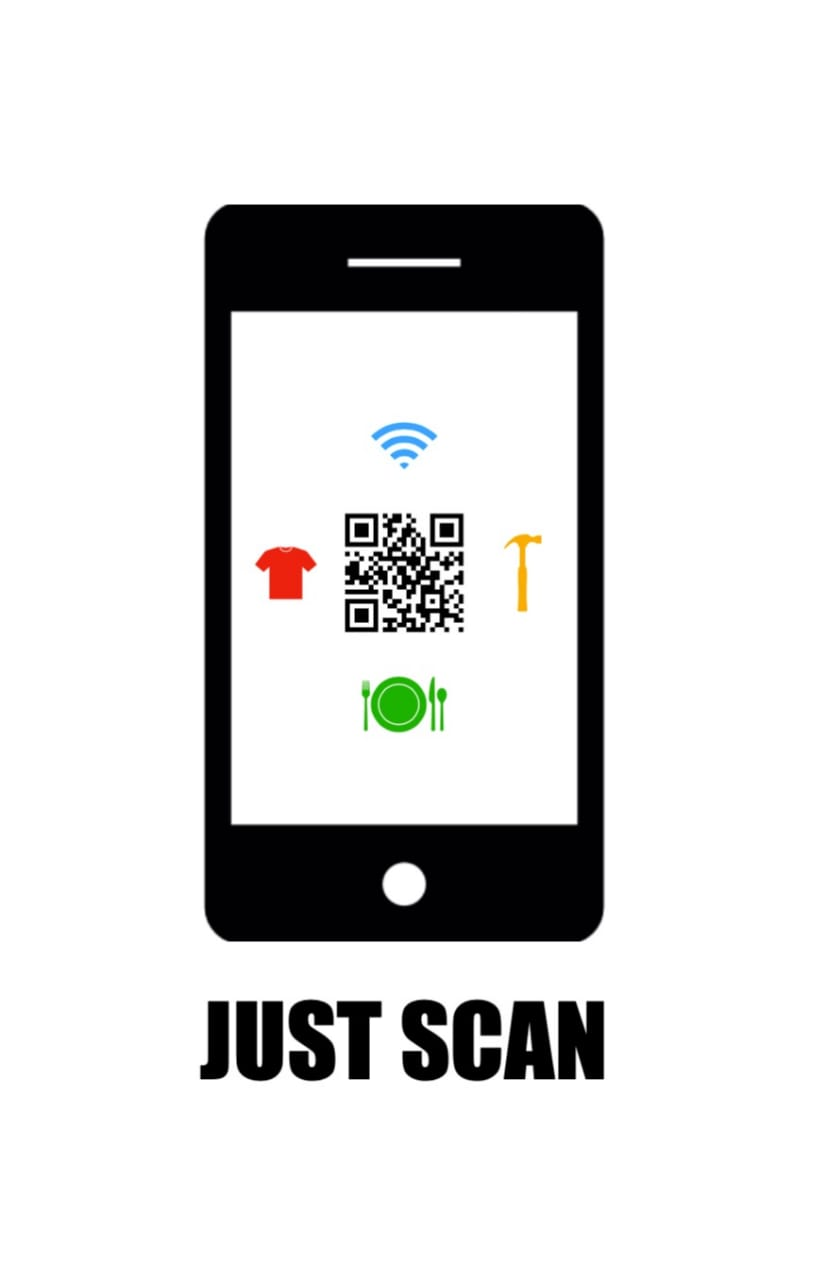
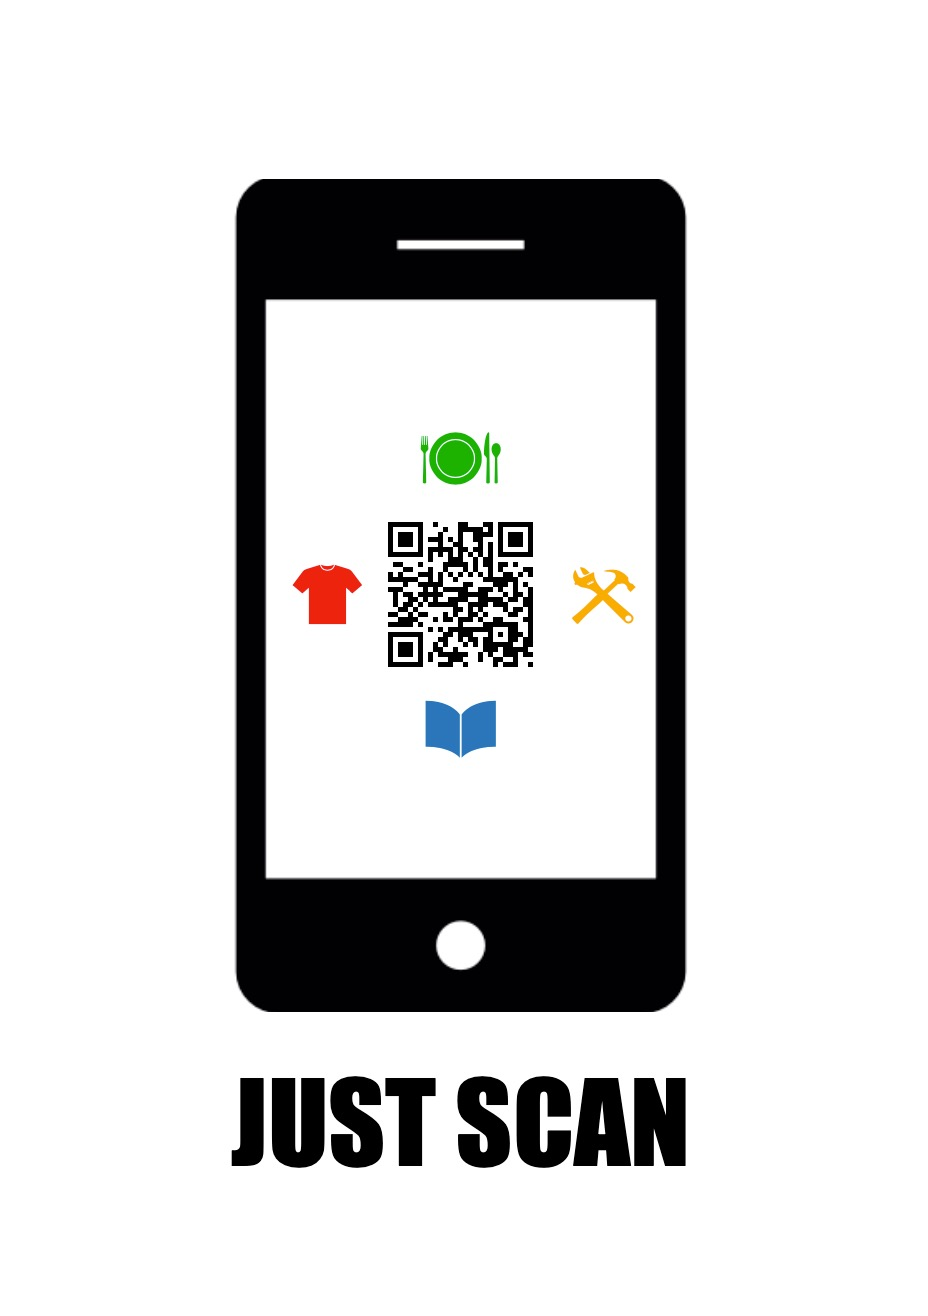
Update of MENU

Changed region(s): [[0.2424, 0.125, 0.7576, 0.9062], [0.3636, 0.3125, 0.5758, 0.5938], [0.3333, 0.4688, 0.3636, 0.5]]

diff --git a/wwwroot/css/menu.css b/wwwroot/css/menu.css
@@ -97,8 +97,8 @@
 }
 
 h1 {
-    color: red;
-    font-size: large;
+    color: black;
+    font-weight: 100;
 }
 
 
@@ -149,8 +149,8 @@ h1 {
 
 #loader {
     position: absolute;
-    left: 50.5%;
-    top: 70%;
+    left: 51.2%;
+    top: 72.7%;
     z-index: 1;
     width: 150px;
     height: 150px;
@@ -370,16 +370,14 @@ strong, b {
 }
 
 .tab1 {
-    padding: 20px 112px;
-    font-size: 47px;
-    /*  background-color: black;
-    color: white;*/
-    font-family: 'Amatic SC', cursive;
-    background-color: #f44336;
-    color: white;
+    padding: 22px 40px;
+    font-size: 39px;
+    font-family: Arial, Helvetica, sans-serif, cursive;
+    background-color: #ffffff;
+    color: #000000;
     border-radius: 8px;
-    border:1px solid black;
-    font-weight:bold;
+    border: 1px solid black;
+    font-weight: bold;
 }
 
     .tab1:hover {
@@ -416,8 +414,7 @@ h1 {
 .span {
     border-radius: 4px !important;
     float: right !important;
-    color: #fff !important;
-    background-color: #616161 !important;
+    color: #616161 !important;
 }
 
 .text {

diff --git a/Controllers/HomeController.cs b/Controllers/HomeController.cs
@@ -6,6 +6,7 @@ using JustScan.Models;
 using Microsoft.Extensions.Configuration;
 using JustScan.Data;
 using System.Linq;
+using System.Web;
 
 namespace JustScan.Controllers
 {
@@ -22,9 +23,17 @@ namespace JustScan.Controllers
 
         }
 
+
+        public IActionResult Index()
+        {
+            return RedirectToAction("privacy", "home");
+
+        }
+
         [HttpGet("{name}")]
         public IActionResult Index(string name)
         {
+            name = HttpUtility.HtmlDecode(name);
             Database logic = new Database(_iconfiguration);
             if (logic.getMenu(name).Count() == 0)
             {
@@ -34,6 +43,7 @@ namespace JustScan.Controllers
             {
                 return View(logic.getMenu(name));
             }
+
         }
 
         public IActionResult Privacy()

diff --git a/Data/Database.cs b/Data/Database.cs
@@ -48,6 +48,7 @@ namespace JustScan.Data
                             BusinessName = rdr["BusinessName"].ToString(),
                             BusinessType = rdr["BusinessType"].ToString(),
                             CategoryName = rdr["CategoryName"].ToString(),
+                            SubCategoryName = rdr["SubCategoryName"].ToString(),
                             Description = rdr["Description"].ToString(),
                             Price = Double.Parse(rdr["Price"].ToString())
 

diff --git a/Models/Menu.cs b/Models/Menu.cs
@@ -13,6 +13,8 @@ namespace JustScan.Models
 
         public string CategoryName { get; set; }
 
+        public string SubCategoryName { get; set; }
+
         public string Description { get; set; }
 
         public double Price { get; set; }
